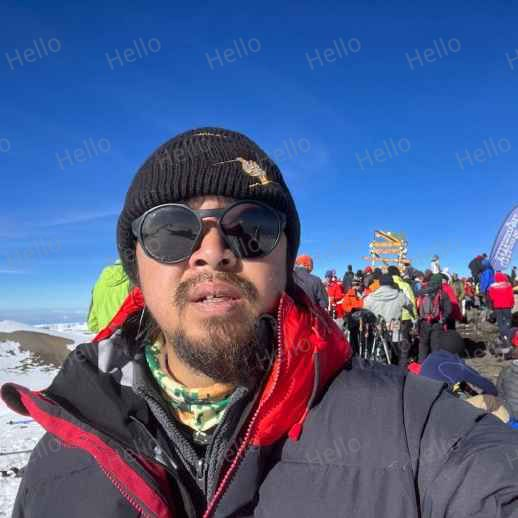
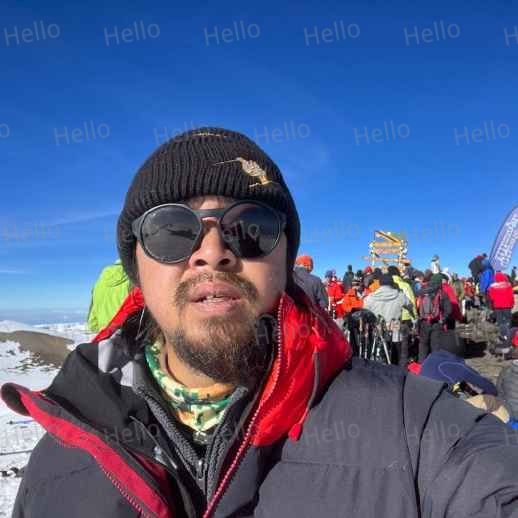
feat: move new text img

diff --git a/text_mark.go b/text_mark.go
@@ -17,7 +17,7 @@ import (
 	"io"
 )
 
-func (c *client) addTextMaskToGif(text string, source io.Reader, option *TextMarkOption) ([]byte, error) {
+func (c *client) addTextMarkToGif(source io.Reader, mark draw.Image, option *TextMarkOption) ([]byte, error) {
 	img, err := gif.DecodeAll(source)
 	if err != nil {
 		return nil, fmt.Errorf("encode gif: %w", err)
@@ -28,7 +28,7 @@ func (c *client) addTextMaskToGif(text string, source io.Reader, option *TextMar
 		newImg := image.NewPaletted(frame.Bounds(), frame.Palette)
 		draw.Draw(newImg, newImg.Bounds(), frame, frame.Bounds().Min, draw.Src)
 
-		c.draw(newImg, text, option)
+		c.draw(newImg, mark, option.StepX, option.StepY)
 
 		newGIF.Image = append(newGIF.Image, newImg)
 		newGIF.Delay = append(newGIF.Delay, img.Delay[i])
@@ -65,24 +65,24 @@ func DefaultTextMarkOption() *TextMarkOption {
 	}
 }
 
-func (c *client) addTextMaskToImage(text string, source io.Reader, format ImageFormat, option *TextMarkOption) ([]byte, error) {
+func (c *client) addTextMarkToImage(source io.Reader, format ImageFormat, mark draw.Image, option *TextMarkOption) ([]byte, error) {
 	img, _, err := image.Decode(source)
 	if err != nil {
 		return nil, fmt.Errorf("decode images: %w", err)
 	}
 
-	newImg := image.NewNRGBA(img.Bounds())
-	draw.Draw(newImg, newImg.Bounds(), img, img.Bounds().Min, draw.Src)
-	c.draw(newImg, text, option)
+	targetImg := image.NewNRGBA(img.Bounds())
+	draw.Draw(targetImg, targetImg.Bounds(), img, img.Bounds().Min, draw.Src)
+	c.draw(targetImg, mark, option.StepX, option.StepY)
 
 	var buf bytes.Buffer
 	switch format {
 	case ImageFormatJpeg, ImageFormatJpg:
-		err = jpeg.Encode(&buf, newImg, &jpeg.Options{Quality: 80})
+		err = jpeg.Encode(&buf, targetImg, &jpeg.Options{Quality: 80})
 	case ImageFormatPng:
-		err = png.Encode(&buf, newImg)
+		err = png.Encode(&buf, targetImg)
 	case ImageFormatWebp:
-		err = webp.Encode(&buf, newImg, &webp.Options{Quality: 80})
+		err = webp.Encode(&buf, targetImg, &webp.Options{Quality: 80})
 	default:
 		return nil, fmt.Errorf("unsuport image format: %s", format)
 	}
@@ -92,38 +92,29 @@ func (c *client) addTextMaskToImage(text string, source io.Reader, format ImageF
 	return buf.Bytes(), nil
 }
 
-// text 水印文字
-// font 字体相关
-// watermarkColor 水印颜色
-// stepX and stepY 是 x轴和y轴的步长
-// dpi dpi
-// skew 倾斜角度
 func (c *client) draw(
-	newImg draw.Image,
-	text string,
-	option *TextMarkOption,
+	target draw.Image,
+	mark draw.Image,
+	stepY, stepX int,
 ) {
-	textImg := c.newTextImg(text, option.Font, option.FontSize, image.NewUniform(option.TextColor), option.Dpi)
-	rotated := imaging.Rotate(textImg, option.Skew, image.Transparent)
-
-	for y := -option.StepY; y <= newImg.Bounds().Max.Y+option.StepY; y += option.StepY {
-		for x := -option.StepX; x <= newImg.Bounds().Max.X+option.StepX; x += option.StepX {
+	for y := -stepY; y <= target.Bounds().Max.Y+stepY; y += stepY {
+		for x := -stepX; x <= target.Bounds().Max.X+stepX; x += stepX {
 			offsetX := 0
-			if (y/option.StepY)%2 == 1 {
-				offsetX = option.StepX / 2
+			if (y/stepY)%2 == 1 {
+				offsetX = stepX / 2
 			}
 
-			draw.Draw(newImg, rotated.Bounds().Add(image.Pt(x+offsetX, y)), rotated, image.Pt(0, 0), draw.Over)
+			draw.Draw(target, mark.Bounds().Add(image.Pt(x+offsetX, y)), mark, image.Pt(0, 0), draw.Over)
 		}
 	}
 }
 
-func (c *client) newTextImg(text string, font *truetype.Font, fontSize float64, watermarkColor *image.Uniform, dpi float64) image.Image {
+func (c *client) newTextImg(text string, opt *TextMarkOption) draw.Image {
 	f := freetype.NewContext()
-	f.SetDPI(dpi)
-	f.SetFont(font)
-	f.SetFontSize(fontSize)
-	f.SetSrc(watermarkColor)
+	f.SetDPI(opt.Dpi)
+	f.SetFont(opt.Font)
+	f.SetFontSize(opt.FontSize)
+	f.SetSrc(image.NewUniform(opt.TextColor))
 
 	textImg := image.NewRGBA(image.Rect(0, 0, len(text)*int(f.PointToFixed(12)>>6), int(f.PointToFixed(12*1.5)>>6)))
 	f.SetClip(textImg.Bounds())
@@ -131,5 +122,9 @@ func (c *client) newTextImg(text string, font *truetype.Font, fontSize float64, 
 
 	pt := freetype.Pt(0, int(f.PointToFixed(12)>>6))
 	_, _ = f.DrawString(text, pt)
+
+	if opt.Skew > 0 {
+		return imaging.Rotate(textImg, opt.Skew, image.Transparent)
+	}
 	return textImg
 }

diff --git a/client_test.go b/client_test.go
@@ -1,6 +1,7 @@
 package watermark
 
 import (
+	"fmt"
 	"os"
 	"testing"
 	"time"
@@ -15,7 +16,7 @@ func TestText(t *testing.T) {
 	}
 	defer f.Close()
 	option := DefaultTextMarkOption()
-	mask, err := c.AddTextMask("Hello", f, ImageFormatJpg, option)
+	mask, err := c.AddTextMark("Hello", f, ImageFormatJpg, option)
 	if err != nil {
 		t.Fatal(err)
 	}
@@ -49,6 +50,11 @@ func TestCost(t *testing.T) {
 		}
 	})
 
+	cost(func() {
+		if err := genGifText(c, "测试测试测试测试测试测试"); err != nil {
+			t.Fatal(err)
+		}
+	})
 }
 
 func genText(c Client, text string) error {
@@ -59,7 +65,7 @@ func genText(c Client, text string) error {
 	defer f.Close()
 
 	option := DefaultTextMarkOption()
-	mask, err := c.AddTextMask(text, f, ImageFormatJpg, option)
+	mask, err := c.AddTextMark(text, f, ImageFormatJpg, option)
 	if err != nil {
 		return err
 	}
@@ -70,7 +76,27 @@ func genText(c Client, text string) error {
 	}
 	_, err = f.Write(mask)
 	return nil
+}
 
+func genGifText(c Client, text string) error {
+	f, err := os.Open("./.github/demo.gif")
+	if err != nil {
+		return err
+	}
+	defer f.Close()
+
+	option := DefaultTextMarkOption()
+	mask, err := c.AddTextMark(text, f, ImageFormatGif, option)
+	if err != nil {
+		return err
+	}
+
+	f, err = os.Create(fmt.Sprintf(".github/demo_watermark_%d.gif", time.Now().UnixNano()))
+	if err != nil {
+		return err
+	}
+	_, err = f.Write(mask)
+	return nil
 }
 
 func cost(f func()) {

diff --git a/client.go b/client.go
@@ -8,14 +8,15 @@ import (
 
 type Client interface {
 
-	// AddTextMask 添加文字水印
-	// text 水印文字
-	// source 图片源
-	// format 图片格式
-	// option 水印参数 see DefaultTextMarkOption
-	AddTextMask(text string, source io.Reader, format ImageFormat, option *TextMarkOption) ([]byte, error)
+	// AddTextMark add text mark
+	// text water text
+	// source image source
+	// format image format
+	// option see DefaultTextMarkOption
+	AddTextMark(text string, source io.Reader, format ImageFormat, option *TextMarkOption) ([]byte, error)
 }
 
+// NewClient new watermark client
 func NewClient() Client {
 	return &client{}
 }
@@ -33,14 +34,16 @@ func init() {
 type client struct {
 }
 
-func (c *client) AddTextMask(text string, source io.Reader, format ImageFormat, option *TextMarkOption) ([]byte, error) {
+func (c *client) AddTextMark(text string, source io.Reader, format ImageFormat, option *TextMarkOption) ([]byte, error) {
 	if option == nil {
 		option = DefaultTextMarkOption()
 	}
+
+	img := c.newTextImg(text, option)
 	switch format {
 	case ImageFormatGif:
-		return c.addTextMaskToGif(text, source, option)
+		return c.addTextMarkToGif(source, img, option)
 	default:
-		return c.addTextMaskToImage(text, source, format, option)
+		return c.addTextMarkToImage(source, format, img, option)
 	}
 }
